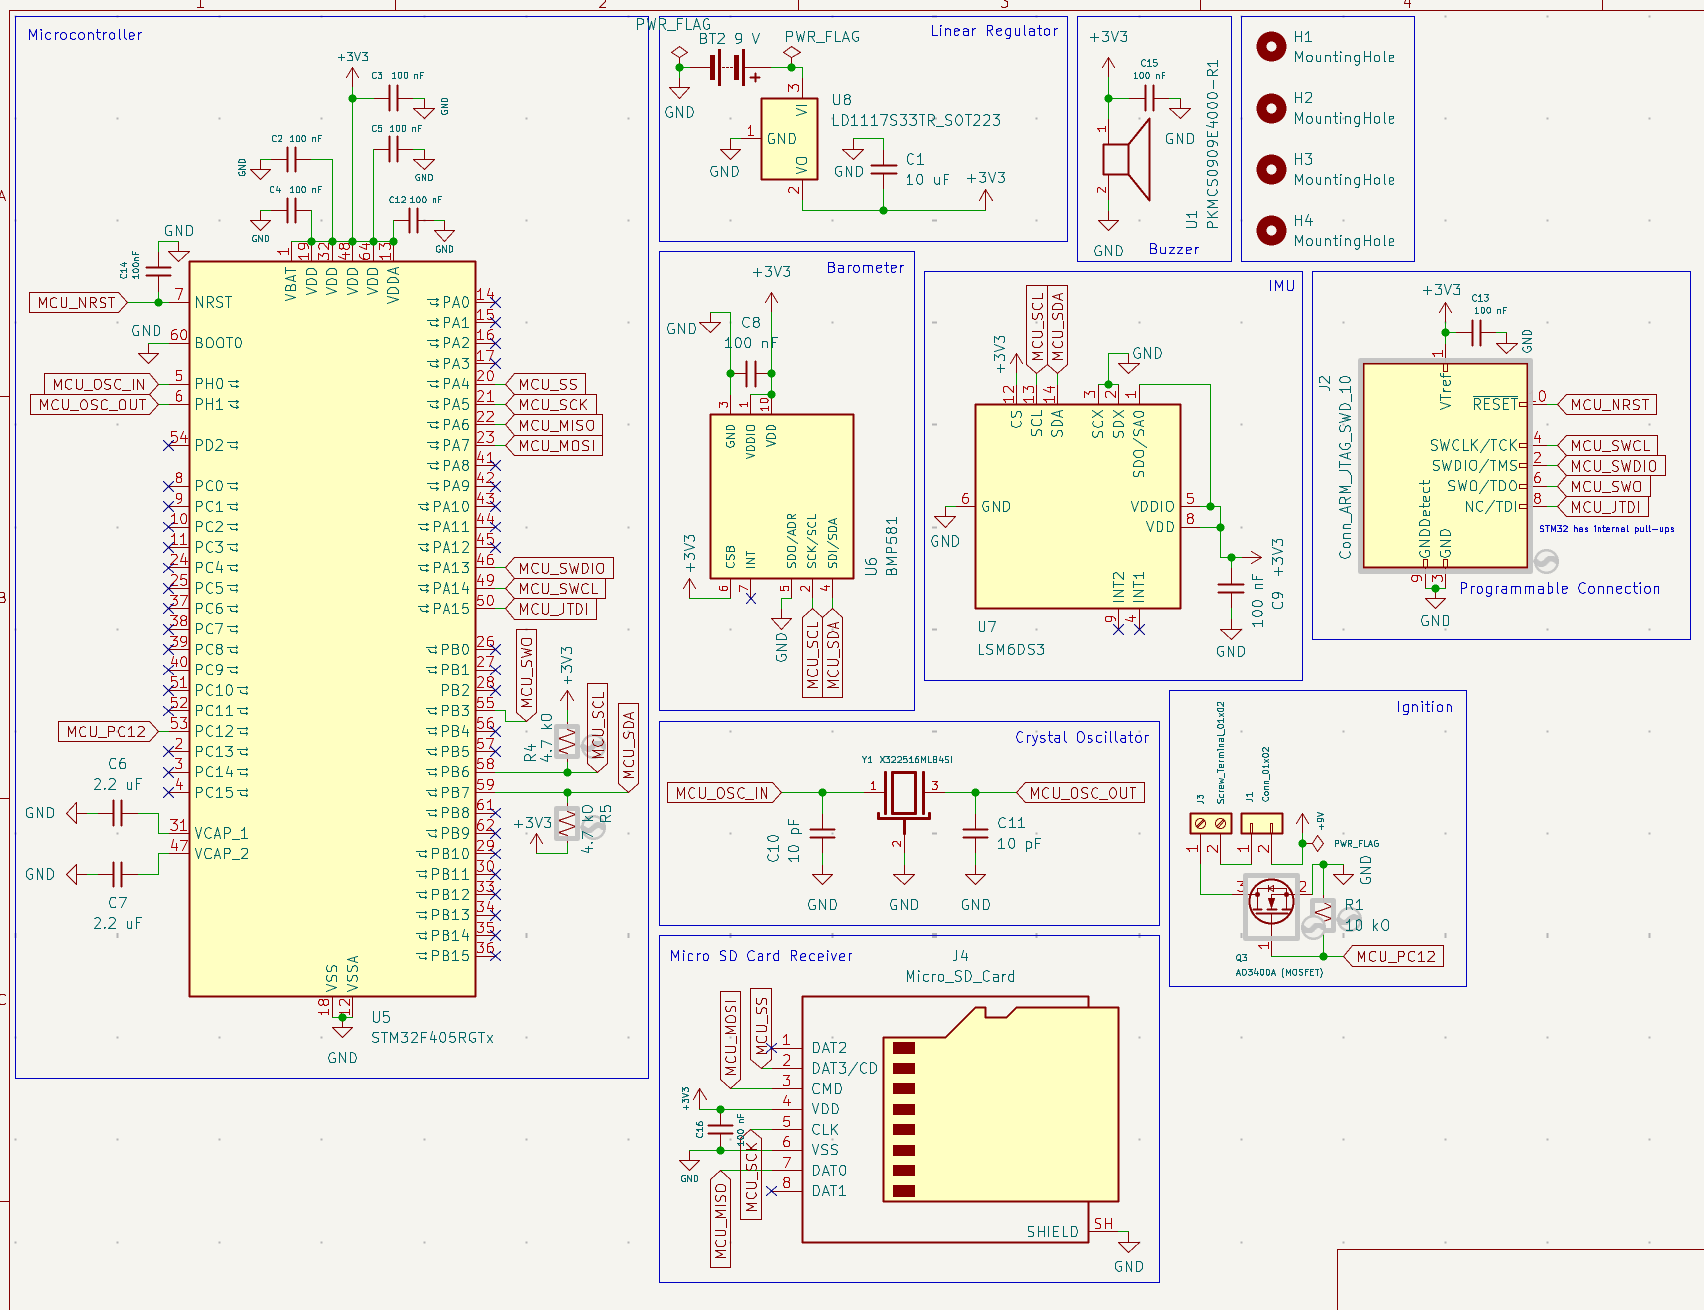
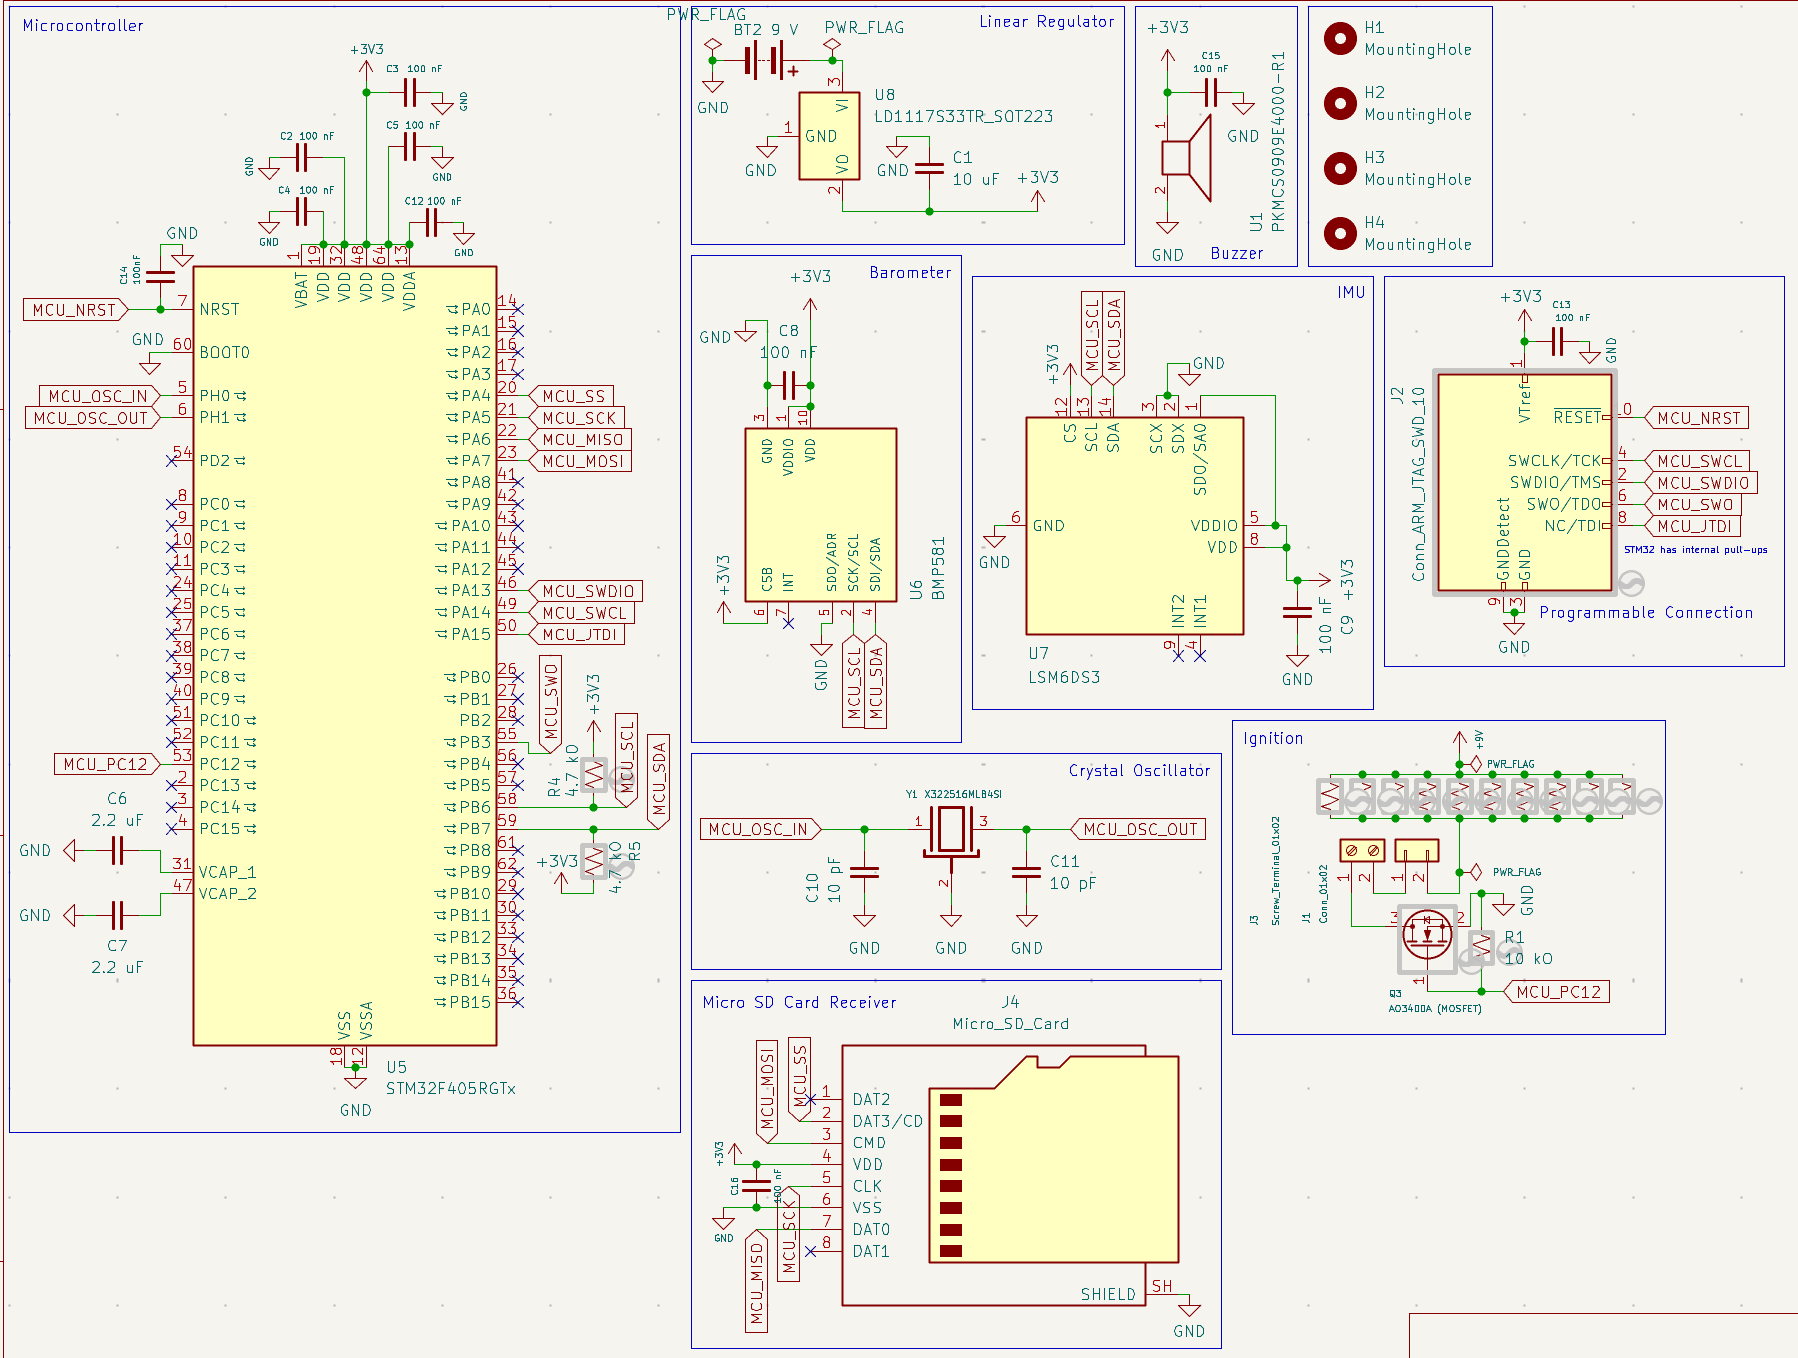
new photos

diff --git a/app/page.tsx b/app/page.tsx
@@ -180,8 +180,8 @@ export default function Home() {
                 >
                   <img
                     src="/projects/avionics/board-3d.png"
-                    width="872"
-                    height="1342"
+                    width="904"
+                    height="1262"
                     alt="3D CAD render of Owen’s HUACR Avionics v1.0 PCB, showing the microcontroller, connectors, sensor packages, and four mounting holes."
                   />
                 </a>
@@ -231,8 +231,8 @@ export default function Home() {
                 >
                   <img
                     src="/projects/avionics/schematic.png"
-                    width="1704"
-                    height="1310"
+                    width="1798"
+                    height="1358"
                     loading="lazy"
                     alt="Flight-computer schematic showing the STM32F405, barometer, IMU, regulator, microSD socket, debug header, and output circuitry."
                   />
@@ -256,8 +256,8 @@ export default function Home() {
                 >
                   <img
                     src="/projects/avionics/pcb-layout.png"
-                    width="876"
-                    height="1320"
+                    width="898"
+                    height="1212"
                     loading="lazy"
                     alt="KiCad PCB layout showing component placement, routed traces, copper fill, and mounting holes."
                   />
